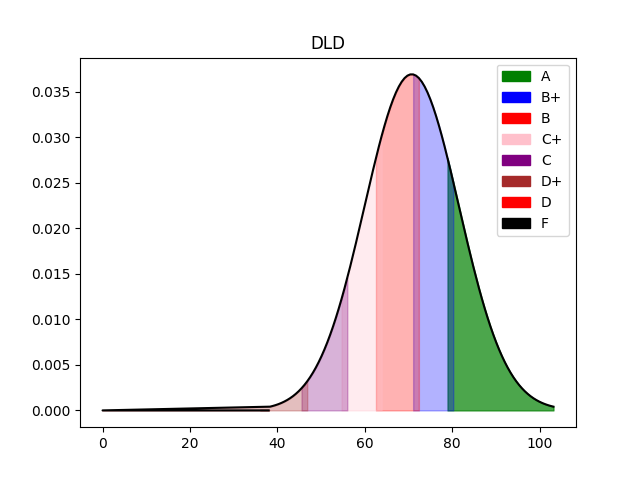
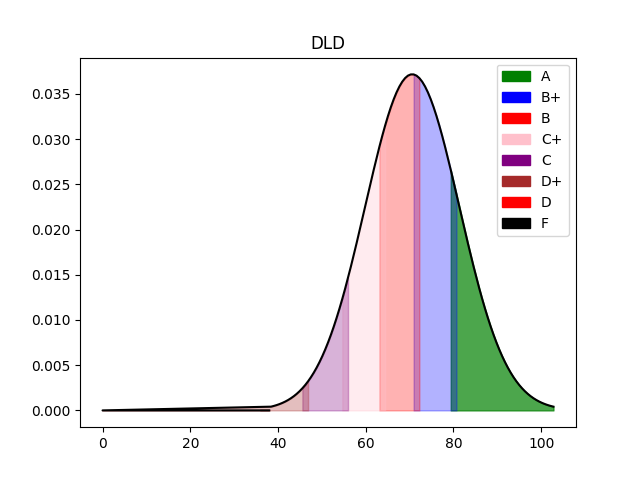
fully updated

diff --git a/GradeApp/templates/result.html b/GradeApp/templates/result.html
@@ -20,42 +20,49 @@ In case your Qalam Score has been updated, keep us notified by <a href="./forget
             <th style="width: 400px">Subject</th>
             <th style="width: 150px;">Aggregate</th>
             <th style="width: 150px;">Grade(Expected)</th>
-            <th style="width: 250px;">Jump Up Chance</th>
+            <th style="width: 220px;">Jump Down Chance</th>
+            <th style="width: 200px;">Jump Up Chance</th>
         </tr>
         <tr style="background-blend-mode: overlay;">
             <td style="text-align: left">Applied Physics</td>
             <td>{{ aggAP }}</td>
             <td>{{ grAP }}</td>
+            <td>{{ pdAP }}</td>
             <td>{{ pAP }}</td>
         </tr>
             <tr>
             <td style="text-align: left">Calculus-II</td>
             <td>{{ aggCAL }}</td>
             <td>{{ grCAL }}</td>
+            <td>{{ pdCAL }}</td>
             <td>{{ pCAL }}</td>
         </tr>
             <tr>
             <td style="text-align: left">Digital Logic Design</td>
             <td>{{ aggDLD }}</td>
             <td>{{ grDLD }}</td>
+            <td>{{ pdDLD }}</td>
             <td>{{ pDLD }}</td>
         </tr>
             <tr>
             <td style="text-align: left">Object Oriented Programming</td>
             <td>{{ aggOOP }}</td>
             <td>{{ grOOP }}</td>
+            <td>{{ pdOOP }}</td>
             <td>{{ pOOP }}</td>
         </tr>
             <tr>
             <td style="text-align: left">Islamic Studies</td>
             <td>{{ aggISL }}</td>
             <td>{{ grISL }}</td>
+            <td>{{ pdISL }}</td>
             <td>{{ pISL }}</td>
         </tr>
         <tr>
             <td style="text-align: left">Introduction To Management</td>
             <td>{{ aggITM }}</td>
             <td>{{ grITM }}</td>
+            <td>{{ pdITM }}</td>
             <td>{{ pITM }}</td>
         </tr>
 

diff --git a/GradeApp/predictions.py b/GradeApp/predictions.py
@@ -80,8 +80,11 @@ def make_prediction(score, ch, data):
 
     boundaries = get_boundary(start, ch, mean, data)
     return (grade_map[str(grade)],
-            (str(round(1 - stats.norm.cdf((boundaries[8 - grade] - score) / sqrt(data.var())),
-                       4) * 100) if grade else "0") + "%")
+            (str(round(100 - (stats.norm.cdf((boundaries[8 - grade] - score) / sqrt(data.var())) * 100),
+                       2)) if grade else "0") + "%",
+            (str(round((stats.norm.cdf((boundaries[7 - grade] - score) / sqrt(data.var())) * 100),
+                       2)) if grade != 7 else "0") + "%",
+            )
 
 
 def decide_boundary(ch, label, i_name, data):

diff --git a/GradeApp/views.py b/GradeApp/views.py
@@ -216,7 +216,7 @@ def process_form(request):
             ch = 2
         else:
             ch = 3
-        context[k], context[k.replace('gr', 'p')] = predictions.make_prediction(aggregates[k.replace('gr', 'agg')], ch, data)
+        context[k], context[k.replace('gr', 'p')], context[k.replace('gr', 'pd')] = predictions.make_prediction(aggregates[k.replace('gr', 'agg')], ch, data)
     return render(request, "result.html", context)
 
 
